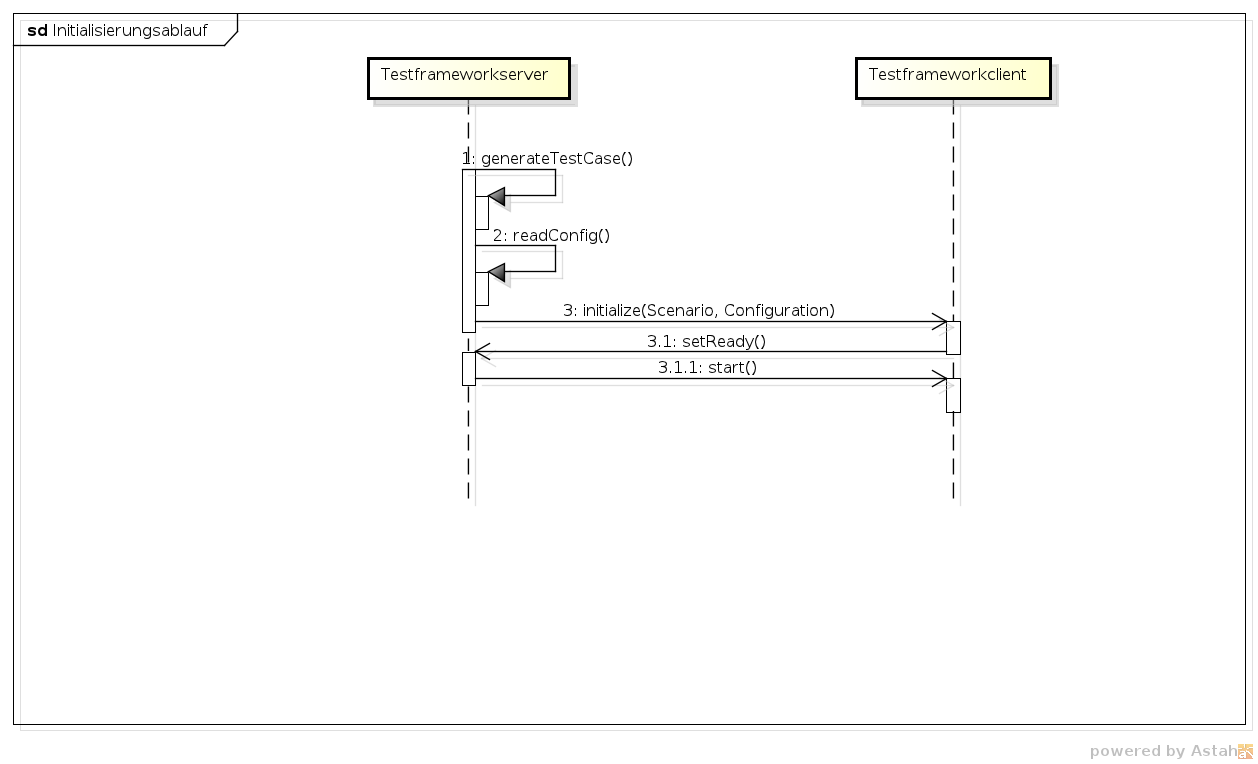
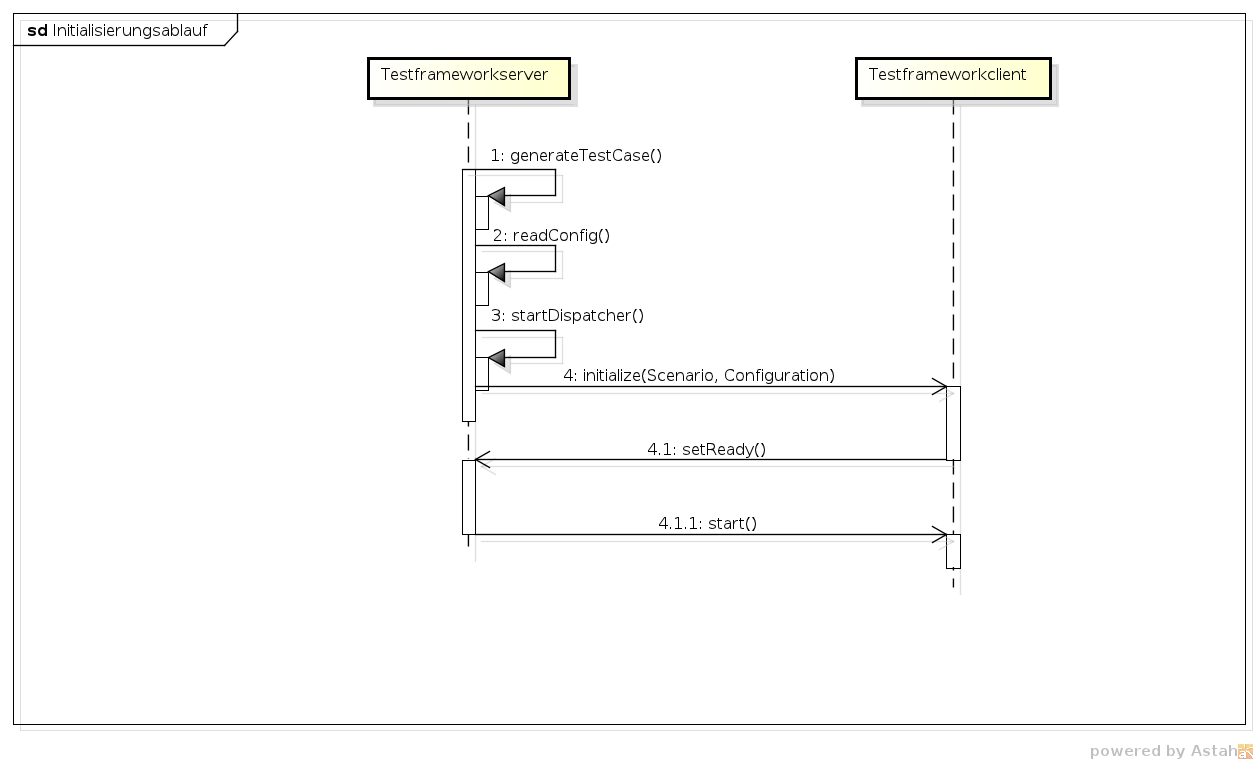
worked on Documentation

diff --git a/doc/project-documentation/testFramework.tex b/doc/project-documentation/testFramework.tex
@@ -6,7 +6,7 @@ Im folgenden Kapitel werden wir auf die einzelnen Komponenten des von uns entwic
 Das Framework lässt sich über eine Konfigurationsdatei konfigurieren und kann Testfälle die in einer XML Datenstruktur vorliegen intepretieren und daraus die einzelnen Testszenarien generieren. Die Testszenarien werden vom Server auf die verfügbaren Testframework Clients verteilen und dort gestartet, hat ein Testframework Client ein Szenario auf einem ClientSystemUnderTest abgearbeitet, wird das Szenario mit den Messwerten zurück an den Server geschickt. Auf dem Server werden dann die Messresultate jedes Szenario ausgewertet und abgespeichert. Dadurch lassen sich die Resultate der verschieden System zu einem späteren Zeitpunkt vergleichen.
 
 
-\subsection{Server}
+\subsection{Der Frameworkserver}
 \label{sec:test-FW Server}
 \subsubsection{Das Startup-Script}
 \label{sec:startupScript}
@@ -28,26 +28,67 @@ Offensichtlich wartet das Script beim Ausführen eines Befehls auf einem fremden
  ssh student@${i} "java -jar ${remotePath}/${clientJar}" &
 \end{lstlisting}
 
-\subsubsection{Der FrameworkServer}
+\subsubsection{Starten der Testumgebung}
 \label{sec:frameWorkServer}
-Der Frameworkserver, einmal gestartet, administriert den ganzen weiteren Ablauf des Testdurchlaufs. Die Kommunikation des Frameworkservers mit den Frameworkclients ist in folgendem Sequenzdiagramm grob dargestellt:
+In diesem Kapitel werden die Schritte beschrieben, welche vor dem Starten des Testlaufs durchgeführt werden. Der Frameworkserver, einmal gestartet, administriert den ganzen weiteren Ablauf des Testlaufs. \newline
+Die Kommunikation des Frameworkservers mit den Frameworkclients ist in folgendem Sequenzdiagramm grob dargestellt:
 
 \begin{center}
 \includegraphics[scale=0.3]{image_testFramework/TestFWInit.png}
 \end{center}
 
-Die Methode generateTestCase() ruft eine Factory auf, welche aus einer XML-Datei einen Testcase generiert. Diese Factory wird unter dem Kapitel Testcase-Factory genauer beschrieben.
-\paragraph
-Alle Konfigurationsparameter welche der Server braucht, sind in einer Konfigurationsdatei abgelegt. Beim Start des Servers wird also diese Konfigurationsdatei in der Methode "readConfig()" ausgelesen. Darin sind unter anderem die Netzwerkports und die Ip-Adressen der Clients definiert. 
-Aus den für den Client wichtigen Informationen wird ein Configuration-Objekt erzeugt. Dieses Objekt wird dann bei initialize an die Clients übergeben. Diese brauchen die im Objekt gespeicherten Informationen, um eine funktionierende RMI-Verbindung mit dem Server herstellen zu können.
+Die im Diagramm dargestellten Operationen lassen sich wie folgt erklären:
 
+\begin{itemize}
+\item Die Methode generateTestCase() ruft eine Factory auf, welche aus einer XML-Datei einen Testcase generiert. Diese Factory wird unter dem Kapitel Testcase-Factory genauer beschrieben.
+\item Alle Konfigurationsparameter welche der Server braucht, sind in einer Konfigurationsdatei abgelegt. Durch eine Configurationfactory wird durch mit Hilfe der Konfigurationsdatei ein Configuration-Objekt erzeugt. Unter dem Kapitel "Configuration-Factory" wird dies näher beschrieben.
+\item Nachdem die Konfigurationsparameter ausgelesen wurden, kann der Dispatcher in einem seperaten Thread gestartet werden. Weitere Ausführungen sind unter dem Kapitel "Der Dispatcher" zu finden.
+\item Bei der Initialisierung der Clients, wird diesen je ein Scenario und ein Configuration-Objekt gesendet. Das Configuration-Objekt umfasst alle für den Client wichtigen Konfigurationsparameter, wie etwa die Ports, unter welchen der Server seine Dienste zur Verfügung stellt. Was ein Scenario genau ist wird unter dem "Kapitel Testcase-Factory" genauer beschrieben.
+\item Pro Client hat der Server beim Auslesen der Konfigurationsdatei ein Client-Objekt instanziert. Dies wurde vorallem zur Kontrolle der Clients durch den Server so implementiert. Darauf wird im Kapitel "ClientObjekt" eingegangen.
+\item Nachdem alle Clients "setReady()" aufgerufen haben, ruft der Server "start()" auf allen Clients auf. Diese beginnen dann mit dem eigentlichen Testlauf. Dadurch sichert der Server einen fairen Start des Testlaufs, da es ansonsten vorkommen könnte, dass einer der Clients massiv früher starten kann, als der andere.
+\end{itemize}
+
+\subsubsection{Testcase-Factory}
+\label{sec:testCaseFactory}
+Die Testcase-Factory liest ein XML-File, in welchem ein sogenannter "TestCase" definiert ist. Wird beim Starten des Frameworkservers kein Paramter mitgegeben, wird der Standard-Testcase gewählt, welcher in der Datei "testCases.xml" abgelegt ist. Wird aber ein Parameter mitgegeben, beschreibt dieser den Namen der auszuführenden TestCase-Datei.\newline
+Durch die eingelesenen Informationen erstellt die Factory die Szenarien, welche dann weiter an die verschiedenen Clients gesendet werden. Folgender Block ist ein Auszug aus einer TestCase-Datei:
+
+\begin{lstlisting}
+<?xml version='1.0' encoding='UTF-8'?>
+<TestRun>
+  <TestCase SystemUnderTest="ch.hsr.objectCaching.rmiOnlyClient.RMIonlyClientSystem">
+    <Account balance="1"></Account>
+      <Scenario id="1">
+        <ActionSequence>
+          <Increment count ="100" delay="0" factor="1.1"></Increment>
+	</ActionSequence>
+      </Scenario>
+      <Scenario id="2">
+	<ActionSequence>
+          <Increment count ="100" delay="0" factor="1.1"></Increment>
+	</ActionSequence>
+      </Scenario>
+  </TestCase>
+</TestRun>
+\end{lstlisting}
+
+Eine TestCase-Datei beschreibt genau einen TestCase. Ein TestCase kann verschiedene Szenarien beinhalten, oder aber auch nur ein Szenario beschreiben. Ist nur ein Szenario definiert, werden beide Clients mit demselben Szenario arbeiten. Falls mehrere Szenarien beschrieben sind, werden die Clients unterschiedliche Szenarien durchführen. \newline
+Ein Szenario besteht aus einer Abfolge von verschiedenen Actions. Was genau eine Action ist, ist unter dem Kapitel "Actions" erläutert.
+
+
+\subsubsection{Configuration-Factory}
+\label{sec:configurationFactory}
+
+\subsubsection{Der Dispatcher}
+\label{sec:dispatcher}
+
+\subsubsection{ClientObjekt}
+\label{sec:ClientObjekt}
 
 
 \begin{itemize}	
-\item Szenario definieren via XML (mit Beispiel?)
-\item Konfiguration mit Property Datei
+
 \item Resultate \& Auswertung
-\item Vorbereitungs Task via Java RMI, Szenarien laden und verteilen
 \item Für die Beweisführung das Lost Updates nicht mehr möglich sind, musste ein zusätzlicher Listener eingebaut der die event protokoliert.
 \end{itemize}
 
